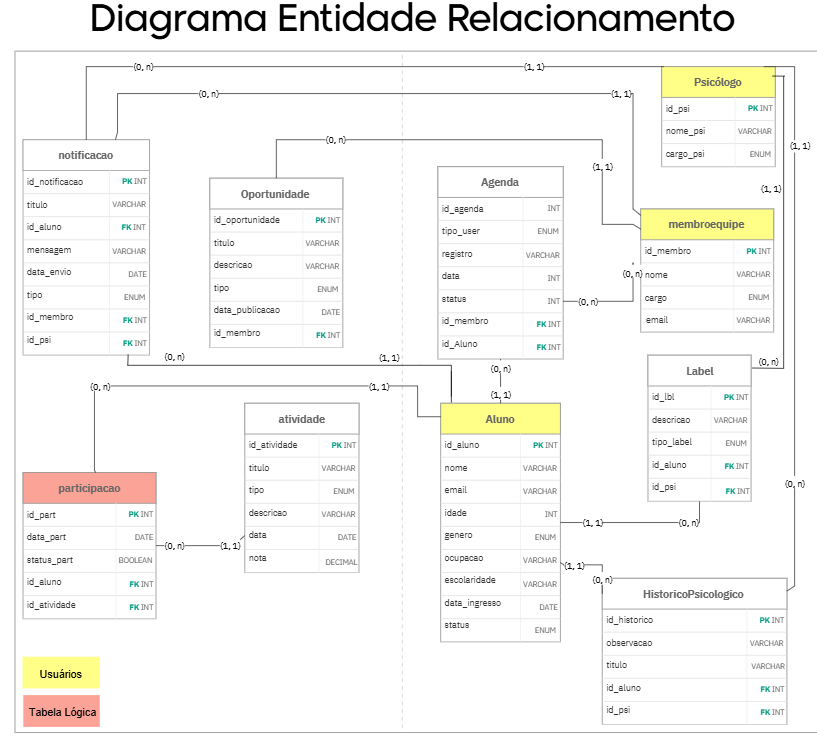
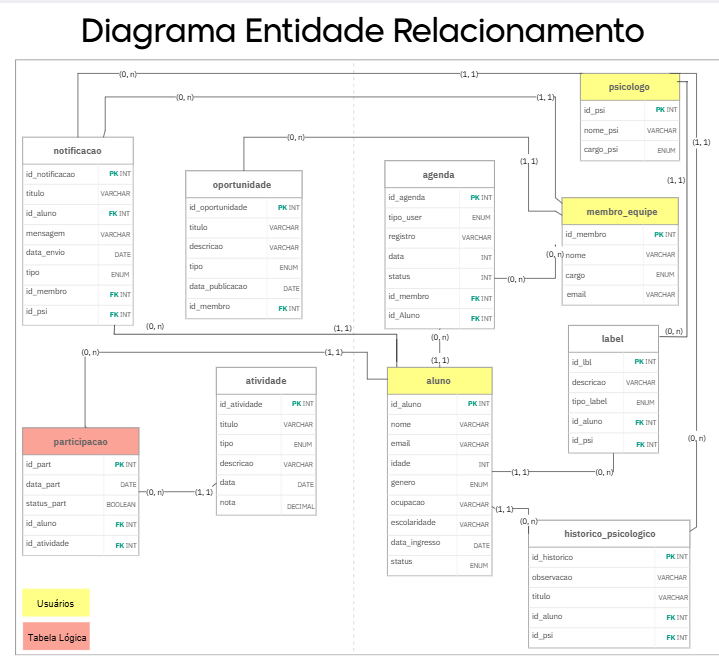
docs: Corrige texto e imagem com adequações ao contexto necessário. (#47)

Changed region(s): [[0.0, 0.0, 1.0, 1.0]]

diff --git a/docs/wad.md b/docs/wad.md
@@ -793,6 +793,7 @@ Seus atributos são:
 - `escolaridade`
 - `data_ingresso`
 - `status`
+
 Cada aluno pode participar de diversas atividades, registrar compromissos na agenda, acumular labels de acompanhamento e possuir diversos registros em seu histórico psicológico.
  
 ### Entidade MembroEquipe
@@ -805,6 +806,7 @@ Seus atributos são:
 - `nome`
 - `cargo`
 - `email`
+
 Cada membro da equipe pode publicar oportunidades, registrar compromissos institucionais na agenda e enviar notificações.
  
 ### Entidade Psicólogo
@@ -816,6 +818,7 @@ Seus atributos são:
 - `id_psi` (PK)
 - `nome_psi`
 - `cargo_psi`
+
 Cada psicólogo pode registrar históricos psicológicos, enviar notificações e acompanhar a evolução comportamental e emocional dos alunos.
  
 ### Entidade Atividade
@@ -848,13 +851,13 @@ Seus atributos são:
 Cardinalidades:
  
 - Um `Aluno` pode possuir zero ou muitas participações.
-- Cada `Participacao` pertence a exatamente um aluno.
+- Cada `Participacao` pertence a um aluno.
 - Uma `Atividade` pode possuir zero ou muitas participações.
 - Cada `Participacao` refere-se a exatamente uma atividade.
 
 ### Entidade Label
  
-A entidade `Label` representa marcadores de acompanhamento atribuídos aos alunos, podendo ser gerados automaticamente pelo sistema ou cadastrados manualmente por psicólogos e membros da equipe.
+A entidade `Label` representa marcadores de acompanhamento atribuídos aos alunos, podendo ser gerados ou cadastrados manualmente por psicólogos.
  
 Seus atributos são:
  
@@ -867,7 +870,7 @@ Seus atributos são:
 Cardinalidades:
  
 - Um `Aluno` pode possuir zero ou muitas labels.
-- Cada `Label` está associada a exatamente um aluno.
+- Cada `Label` está associada a um aluno.
 O atributo `id_psi` referencia o psicólogo responsável pela criação da label, podendo ser nulo quando a label for gerada automaticamente pelo sistema.
  
 ### Entidade HistoricoPsicologico
@@ -878,7 +881,6 @@ Seus atributos são:
  
 - `id_historico` (PK)
 - `observacao`
-- `classificacao`
 - `titulo`
 - `id_aluno` (FK)
 - `id_psi` (FK)
@@ -897,7 +899,7 @@ A entidade `Agenda` armazena compromissos pessoais e institucionais, permitindo 
  
 Seus atributos são:
  
-- `id_agenda`
+- `id_agenda` (PK)
 - `tipo_user`
 - `registro`
 - `data`
@@ -976,10 +978,15 @@ Os principais relacionamentos definidos no DER são:
 A principal decisão arquitetural foi a criação da entidade `Atividade`, responsável por unificar cursos, eventos, mentorias e aulas em uma estrutura única, incluindo o atributo `nota` diretamente nessa entidade. Essa abordagem reduz a redundância de dados e facilita a manutenção do sistema, uma vez que a entidade `Participacao` passa a referenciar um único tipo de objeto para registrar o vínculo entre alunos e atividades.
  
 Outra decisão importante foi a adoção da entidade associativa `Participacao`, que implementa o relacionamento muitos-para-muitos entre alunos e atividades e permite armazenar atributos específicos, como data e status da participação.
+
+O modelo foi construído respeitando a Terceira Forma Normal (3FN). Não há dependências transitivas entre atributos não-chave, e todos os atributos dependem exclusivamente de suas respectivas chaves primárias. A entidade associativa Participacao, por exemplo, garante que os atributos data_part e status_part dependam da combinação de id_aluno e id_atividade, e não de apenas uma das chaves isoladamente.
  
-O modelo também foi concebido para suportar a importação e exportação de planilhas, possibilitando atualizações em lote de informações como participações e indicadores sem necessidade de alterações estruturais no banco de dados.
- 
+### Limitações Conhecidas do Modelo
+
+A unificação de cursos, eventos, mentorias e aulas no atributo "tipo" da entidade Atividade simplifica o modelo e reduz redundâncias, porém implica perda de especificidade estrutural entre os tipos. Caso futuramente seja necessário armazenar atributos exclusivos de cada tipo, como carga horária para cursos ou palestrante para eventos, o modelo exigirá refatoração. Essa é uma limitação conhecida e aceita, justificada pelo escopo atual do sistema.
+
 ### Conclusão
+
  
 O Diagrama Entidade-Relacionamento do PulseManager representa de forma estruturada, consistente e normalizada os dados necessários para o funcionamento do sistema. A identificação explícita de chaves primárias, chaves estrangeiras e cardinalidades garante integridade referencial e aderência às regras de negócio, estabelecendo uma base sólida para a construção do Modelo Relacional e do Modelo Físico do banco de dados.
 
